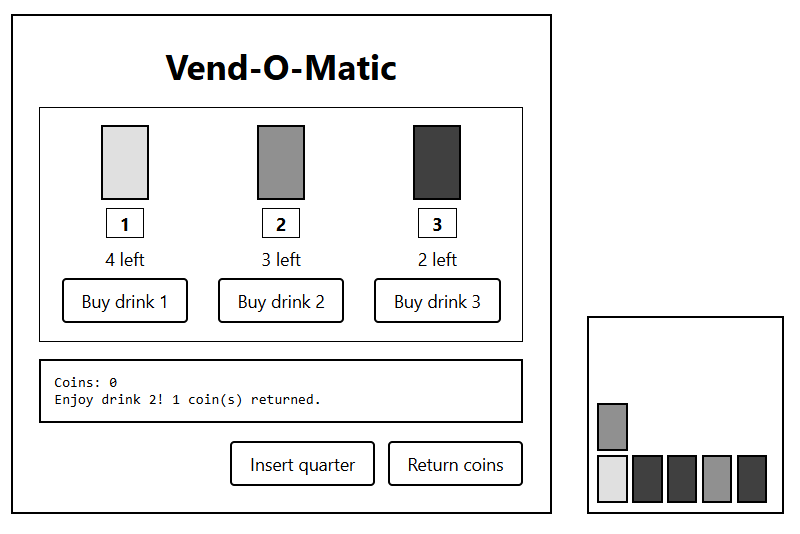
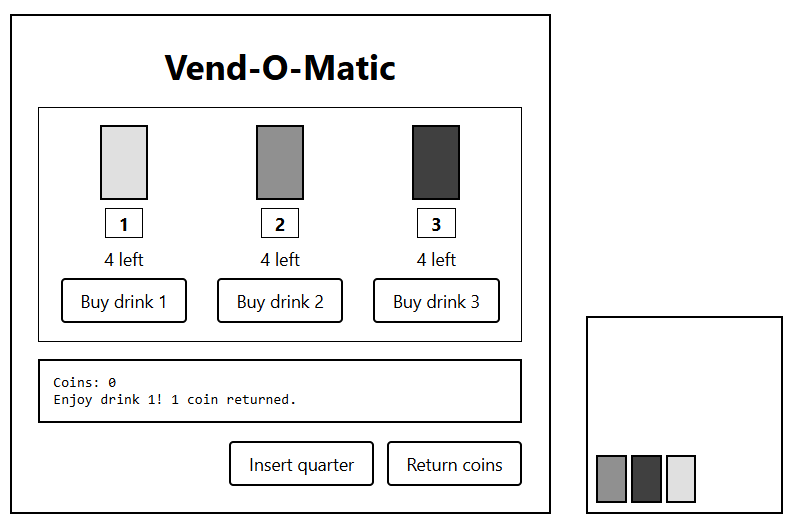
added helper function for coin(s) plural

diff --git a/machine/static/machine/script.js b/machine/static/machine/script.js
@@ -2,6 +2,10 @@ const coinsDisplay = document.getElementById("coins");
 const message = document.getElementById("message");
 const dispensed = document.getElementById("dispensed");
 
+function coinWord(count) {
+  return Number(count) === 1 ? "coin" : "coins";
+}
+
 async function loadStock() {
   const response = await fetch("/inventory");
   const stock = await response.json();
@@ -25,7 +29,7 @@ async function returnCoins() {
   const response = await fetch("/", { method: "DELETE" });
   const returned = response.headers.get("X-Coins");
   coinsDisplay.textContent = 0;
-  message.textContent = `${returned} coin(s) returned.`;
+  message.textContent = `${returned} ${coinWord(returned)} returned.`;
 }
 
 async function buy(id) {
@@ -36,7 +40,7 @@ async function buy(id) {
     const remaining = response.headers.get("X-Inventory-Remaining");
     document.getElementById(`stock-${id}`).textContent = remaining;
     coinsDisplay.textContent = 0;
-    message.textContent = `Enjoy drink ${id}! ${coins} coin(s) returned.`;
+    message.textContent = `Enjoy drink ${id}! ${coins} ${coinWord(coins)} returned.`;
     const can = document.createElement("div");
     can.className = `can can-${id}`;
     dispensed.appendChild(can);

diff --git a/README.md b/README.md
@@ -17,7 +17,8 @@ python3 -m venv venv
 source venv/bin/activate
 pip install -r requirements.txt
 ```
-Developed on Windows with Git Bash. On Windows, activate with `source venv/Scripts/activate`.
+Developed on Windows with Git Bash. On Windows, activate with `source venv/Scripts/activate` (line 4 above)
+
 
 ## Run the server
 
